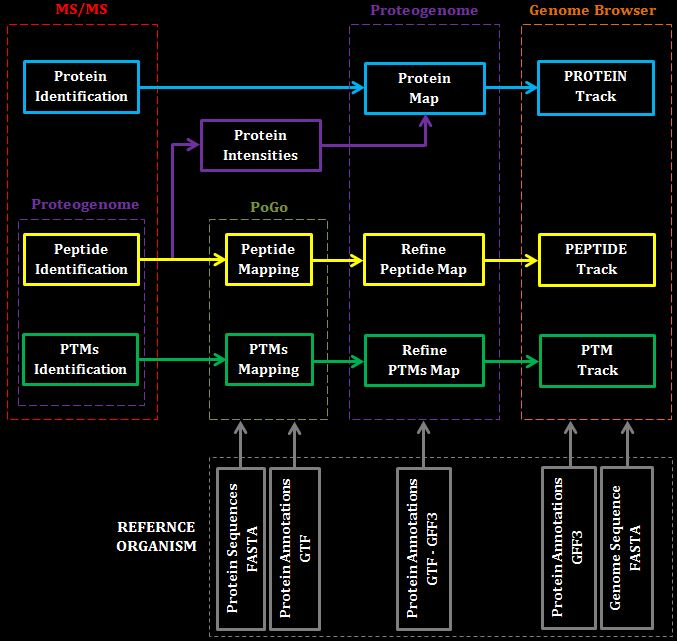
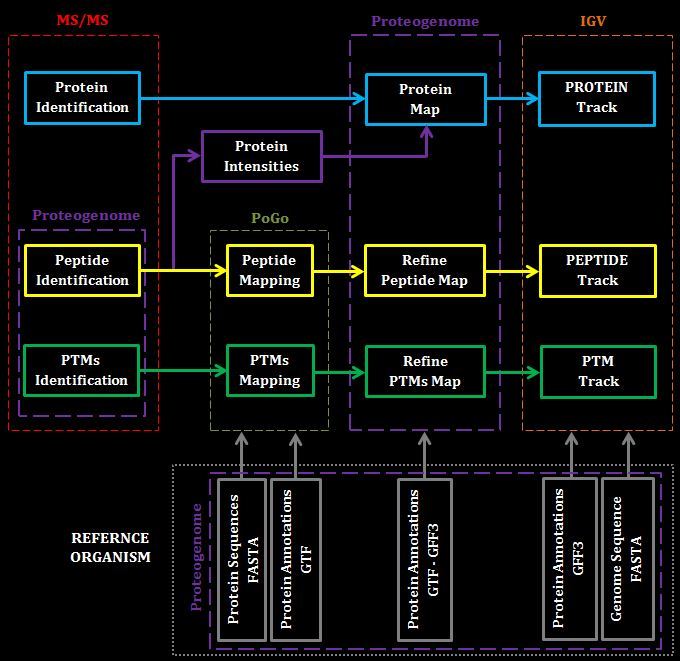
Added:
README:
Proteogenome Worflow section and image

Images/:
ProteogenomeWorkflow.JPG image with the workflow schema

4_FASTA_CompactSequences.JPG namefile fixed, there was one too many '_' character

Changed region(s): [[0.0, 0.0, 1.0, 0.9984], [0.8065, 0.4992, 0.9926, 0.6552], [0.7755, 0.0, 0.9926, 0.0624]]

diff --git a/README.md b/README.md
@@ -5,6 +5,7 @@
 [Introduction](#i) </br>
 [What Proteogenome Does](#wpd) </br>
 [How Proteogenome Works](#hpw) </br>
+- [Proteogenome Workflow](#hpwpwf)
 - [Protein Map Overview](#hpwpm)
 - [Peptide Map Overview](#hpwpepm)
 - [PTM Map Overview](#hpwptmm)
@@ -33,7 +34,7 @@
   
 <a name="i"/></a></br>
 ### ***Introduction***
-This software has been developed considering the mass spectrometry (MS) analysis process. In general, the mass spectrometers generate peptide raw data. If not further processed, these data are not very informative. For this reason, onboard the mass spectrometer appliances, specific software are often available. These tools perform the data analysis allowing the peptide sequences identification, if present where occur the post transitional modifications (PTM) in the peptide sequence and the proteins identification (providing the ID codes) from which the peptides come. Our purpose is to represent these data on a genome browser giving the opportunity to have an overview of three main feature of these proteomics data:
+This software was developed considering the mass spectrometry (MS) analysis process. In general, mass spectrometers generate peptide raw data. If not further processed, this data is not very informative. For this reason, specific software is often available on board the mass spectrometer equipment. These tools perform data analysis allowing: identification of peptide sequences, post-transitional modifications (PTMs) in the peptide sequence (if present) and identification of proteins (providing ID codes) from which the peptides originate. Our purpose is to represent these data on a genome browser giving the opportunity to have an overview of three main feature of these proteomics data:
 - which parts of the DNA are expressed (protein map) 
 - how intese has been this expression (protein map color coding)
 - which peptides confirm the presence of a protein and where they are located (peptide map)
@@ -50,6 +51,19 @@ The Proteogenome output will be the protein and the peptide map in BED file form
 The activity to map the peptides on a reference genome is similar to reversing the Central Dogma of Molecular Biology moving from the polypeptide chain to the DNA sequence made of nucleotides.
 Proteogenome performs a proteomic map where proteins and peptides are graphically located against the DNA strand from wich they have been translated. This is possible only if we can find the genomic coordinates of each amino acid. In other words, we need a genomic linkage between each protein sequence and the DNA sequence. 
 This linkage will be represented by the genomic annotations of the proteins that we are trying to map. Therefore, **it is necessary that each protein identified by the MS analysis has been also annotated in the reference genome used in the mapping operation**.
+
+<a name="hpwpwf"/></a></br>
+**Proteogenome Worflow** </br></br>
+![](Images/ProteogenomeWorkflow.JPG) </br>
+In this image is represented the workflow that implements the data visualisation process. While MS/MS block is unknown, because it represents the software onboard the specific mass spectrometer, the other software involved in this workflow are PoGo and IGV. There are three data pathways that manage three different input data map generation: proteins (in *cyan*), peptides (in *yellow*) and PTM (in *dark green*)
+The solid boxes represent data along the entire workflow. Since the data are manipulated at each step of the workflow, the solid boxes are enclosed into the software boxes in charge of the specific manipulation. 
+
+The software exception is represented by the two Proteogenome boxes. The first box, embedded in the MS/MS block, shows how Proteogenome is used to prepare data for the further steps in the workflow. Because we do not know how the data are formatted in the proteomics input table, it is possible that some pre-processing steps should be performed along the workflow.
+The second exception is a Proteogenome box embedded in the REFERENCE ORGANISM box. Since this workflow involves three software (PoGo, IGV, Proteogenome), it is possible that different software could process different file formats. Therefore, we thought about equipping our software with conversion in scripts in order to fit the data for the specific tool involved in our workflow.
+
+The purple box **Protein Intensities** represents the data exception. It has been represented outside the Proteogenome box because these data will not visualise. Instead, they are necessary for the generation of the **Protein Map** and could be considered as intermediate data generated and consumed by Proteogenome.
+
+The **REFERENCE ORGANISM** box represents the reference input data necessary for the alignment and mapping operations. Since Proteogenome is not intended for the *de novo* mapping activity, it will be possible to visualise proteins, peptides and PTMs only if we have data from the reference organism. In general, these data are the protein sequences and the protein annotations, but for IGV it is necessary to provide the whole genome DNA sequence in a single FASTA record.    
 
 <a name="hpwpm"/></a></br>
 **Protein Map Overview** </br>
